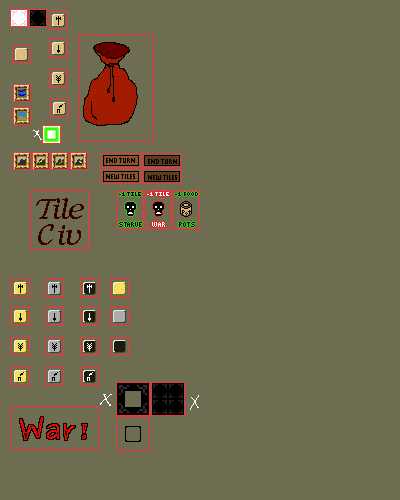
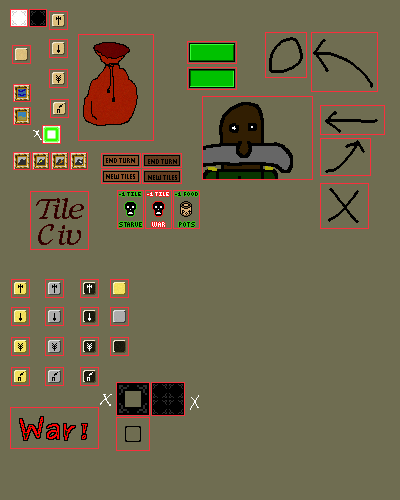
Further work on tileciv; added an objectives screen, removed debugging message from stats, and added the beginnings of a regex function for FFL.

diff --git a/src/formula_function.cpp b/src/formula_function.cpp
@@ -23,6 +23,7 @@
 #include "unit_test.hpp"
 
 #include "SDL.h"
+#include <boost/regex.hpp>
 
 namespace {
 	const float radians_to_degrees = 57.29577951308232087;
@@ -512,6 +513,32 @@ private:
 		result.push_back(variant(decimal(v)));
 		
 		return variant(&result);
+	}
+};
+
+class regex_function : public function_expression { //regular expressions
+public:
+	explicit regex_function(const args_list& args)
+	     : function_expression("regex", args, 2,2)
+	{}
+
+private:
+	variant execute(const formula_callable& variables) const {
+		boost::regex filter(args()[0]->evaluate(variables).as_string());
+		boost::smatch out;
+		const std::string subject = args()[1]->evaluate(variables).as_string();
+		std::string result = "";
+		
+		std::cerr << " == REGEX == \nFilter: " << filter << "\nSubject: " << subject << "\n";
+		
+		if(boost::regex_match(subject, out, filter)){
+			result = "success";
+		}
+		else {
+			result = "failure";
+		}
+		
+		return variant(result);
 	}
 };
 
@@ -1126,6 +1153,7 @@ functions_map& get_functions_map() {
 		FUNCTION(sqrt);
 		FUNCTION(angle);
 		FUNCTION(orbit);
+		FUNCTION(regex);
 		FUNCTION(sort);
 		FUNCTION(flatten);
 		FUNCTION(filter);

diff --git a/src/stats.cpp b/src/stats.cpp
@@ -63,7 +63,7 @@ void http_upload(const std::string& payload, const std::string& script) {
 		return;
 	}
 
-	std::cerr << "STATS UPLOADED TO " << script << ": \n" << payload << "\n";
+	//std::cerr << "STATS UPLOADED TO " << script << ": \n" << payload << "\n";
 }
 
 namespace stats {
